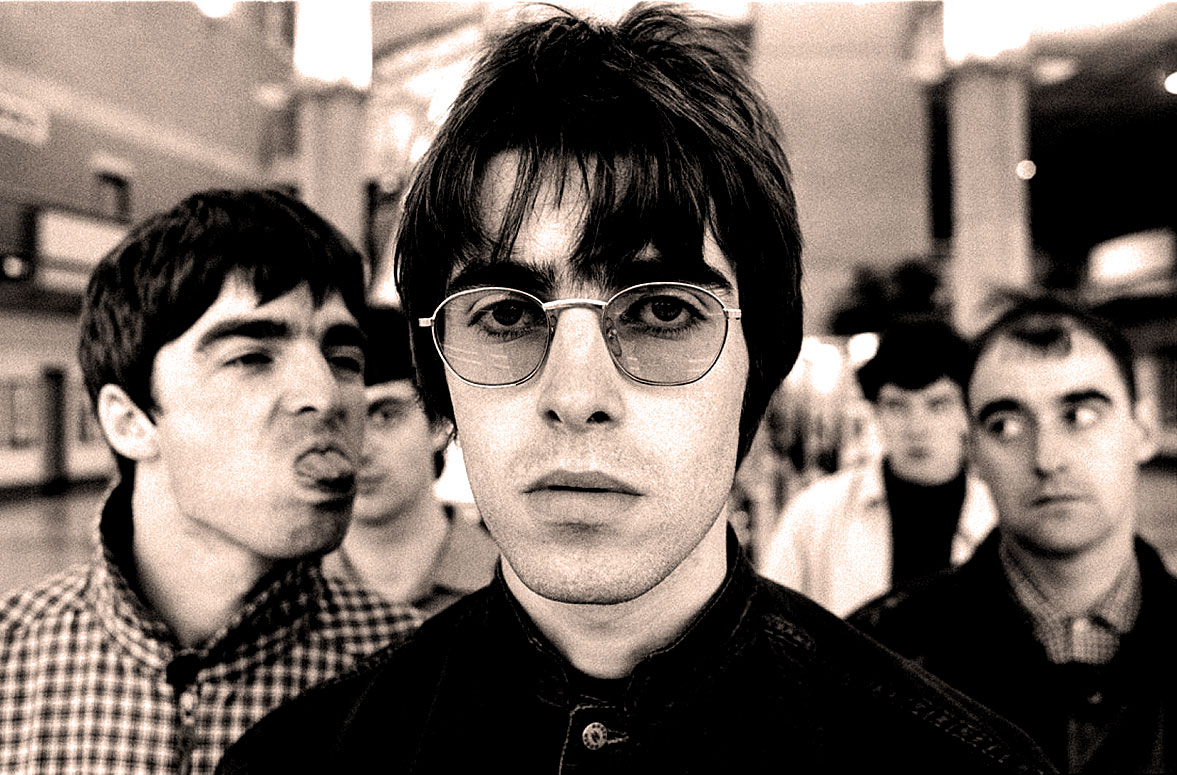
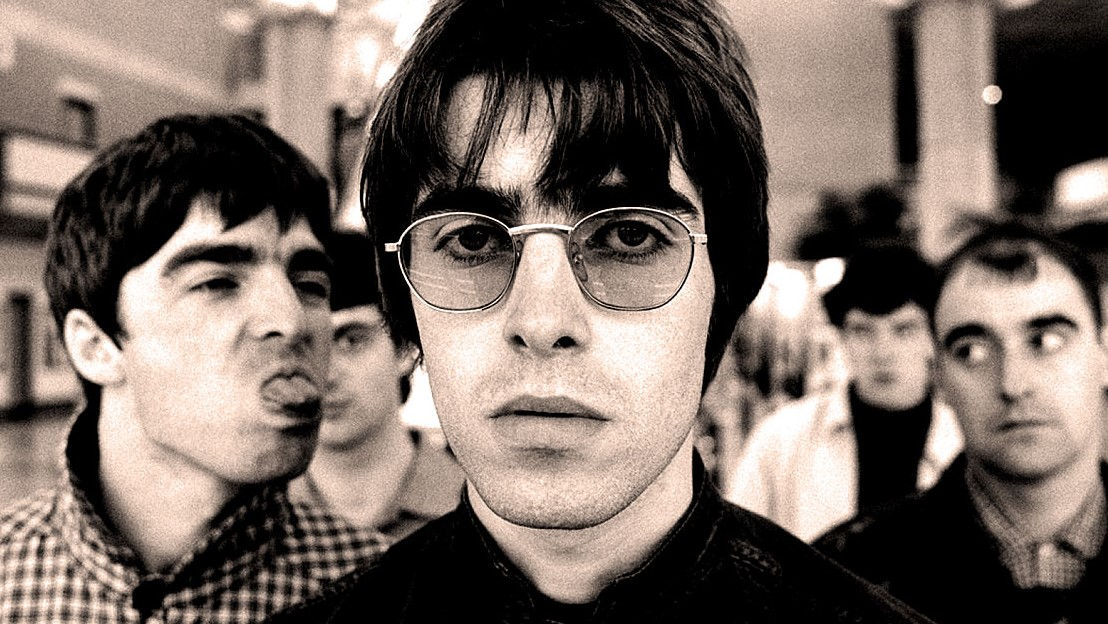
sizing gambar detail ts index update

diff --git a/index.html b/index.html
@@ -48,16 +48,21 @@
 
         <div class="main-carousel">
           <div class="carousel-cell">
-            <img src="image/1.jpg" alt="">
+            <a href="#">
+              <img src="image/1.jpg" alt="">
+                <div class="caption absolute">
+                  Lorem ipsum dolor sit amet, consectetur adipisicing elit. Blanditiis quisquam, eius nam expedita laboriosam sed. Doloribus eaque nobis rerum? Ducimus possimus eligendi temporibus eveniet expedita corrupti ut, vero consectetur atque.
+                </div>
+            </a>
           </div>
           <div class="carousel-cell">
-            <img src="image/2.jpg" alt="Chania">
+            <img src="image/2.jpg" alt="">
           </div>
           <div class="carousel-cell">
-            <img src="image/3.jpg" alt="Flower">
+            <img src="image/3.jpg" alt="">
           </div>
           <div class="carousel-cell">
-            <img src="image/4.jpg" alt="Flower">
+            <img src="image/4.jpg" alt="">
           </div>
         </div>
 			</div>
@@ -121,7 +126,7 @@
       <div class="row">
       <h1 class="text-center">EVENT</h1>
         <div class="col-lg-8 text-center">
-          <div class="thumbnail">
+          <div class="thumbnail image__thumbnail--event1">
             <a href="eventdetai1.html">
               <img src="image/aa.jpg" alt="" class="img-responsive">
               <div class="caption absolute">
@@ -132,13 +137,13 @@
             </a>
           </div>
         </div>
-        <div class="col-lg-4  text-center">
+        <div class="col-lg-4">
           <div class="thumbnail">
             <div class="row">
               <div class="col-lg-12">
                 <a href="eventdetai2.html">
                   <img src="image/ac.jpg" alt="" class="img-responsive">
-                   <div class="caption absolute">
+                   <div class="caption absolute text-center">
                     <h2>EVENT 2</h2>
                       <p class="hm">Lorem ipsum dolor sit amet, consectetur adipisicing elit. Maiores enim recusandae saepe, </p>
                   </div>
@@ -148,10 +153,10 @@
           </div>
           <div class="thumbnail">
             <div class="row">
-               <div class="col-lg-12 text-center">
+               <div class="col-lg-12">
                 <a href="eventdetai3.html">
                   <img src="image/ab.jpg" alt="" class="img-responsive">
-                   <div class="caption absolute bodas">
+                   <div class="caption absolute bodas text-center">
                      <h2>EVENT 3</h2>
                         <p class="hm">Lorem ipsum dolor sit amet, consectetur adipisicing elit. Maiores enim recusandae saepe, </p>
                     </div>
@@ -215,6 +220,7 @@
 $( document ).ready(function() {
   $('.main-carousel').flickity({
     accessibility: true,
+    cellAlign: 'center'
   });
 });  
 </script>

diff --git a/detailts1.html b/detailts1.html
@@ -62,14 +62,14 @@
 
 	<div class="container">
 		<div class="row">
-			<div class="col-md-12">
+			<div class="col-xs-12">
 				<div class="title__product--related">
 					RELATED PRODUCTS
 				</div>
 			</div>
 		</div>
 		<div class="row">
-			<div class="col-md-2 col-md-offset-2">
+			<div class="col-xs-2 col-xs-offset-2">
 				<a href="">
 					<img class="img-responsive" src="image/ts.png" alt="">
 					<div class="caption text-center">
@@ -77,7 +77,7 @@
 				</div>
 				</a>
 			</div>
-			<div class="col-md-2">
+			<div class="col-xs-2">
 				<a href="">
 					<img class="img-responsive" src="image/ts.png" alt="">
 					<div class="caption text-center">
@@ -85,7 +85,7 @@
 				</div>
 				</a>
 			</div>
-			<div class="col-md-2">
+			<div class="col-xs-2">
 				<a href="">
 					<img class="img-responsive" src="image/ts.png" alt="">
 					<div class="caption text-center">
@@ -93,7 +93,7 @@
 				</div>
 				</a>
 			</div>
-			<div class="col-md-2">
+			<div class="col-xs-2">
 				<a href="">
 					<img class="img-responsive" src="image/ts.png" alt="">
 					<div class="caption text-center">

diff --git a/css/style.css b/css/style.css
@@ -102,3 +102,11 @@ h4{
 .detail__product{
 	margin-top: 3em;
 }
+.image__thumbnail--event1{
+	margin-top: 2px;
+}
+.main-carousel .carousel-cell{
+	width: 100%; /* full width */
+  	height: 624px; /* height of carousel */
+  	text-align: center;
+}
